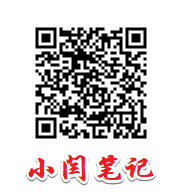
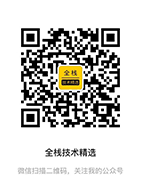
更新图片

diff --git a/template/html/index.html b/template/html/index.html
@@ -4,7 +4,7 @@
     <meta charset="UTF-8">
     <meta name="viewport" content="width=device-width, initial-scale=1.0">
     <meta http-equiv="X-UA-Compatible" content="ie=edge">
-    <title>小闫笔记</title>
+    <title>全栈技术精选</title>
     <link rel="stylesheet" href="../css/main.css">
     <script type="text/javascript" src="../js/index.js"></script>
 </head>

diff --git a/template/css/main.css b/template/css/main.css
@@ -66,8 +66,9 @@
 .footer{
     position: fixed;
     bottom: 0;
-    left: 38%;
+    left: 50%;
     margin:30px 0;
+    margin-left: -150px;
     
 }
 
